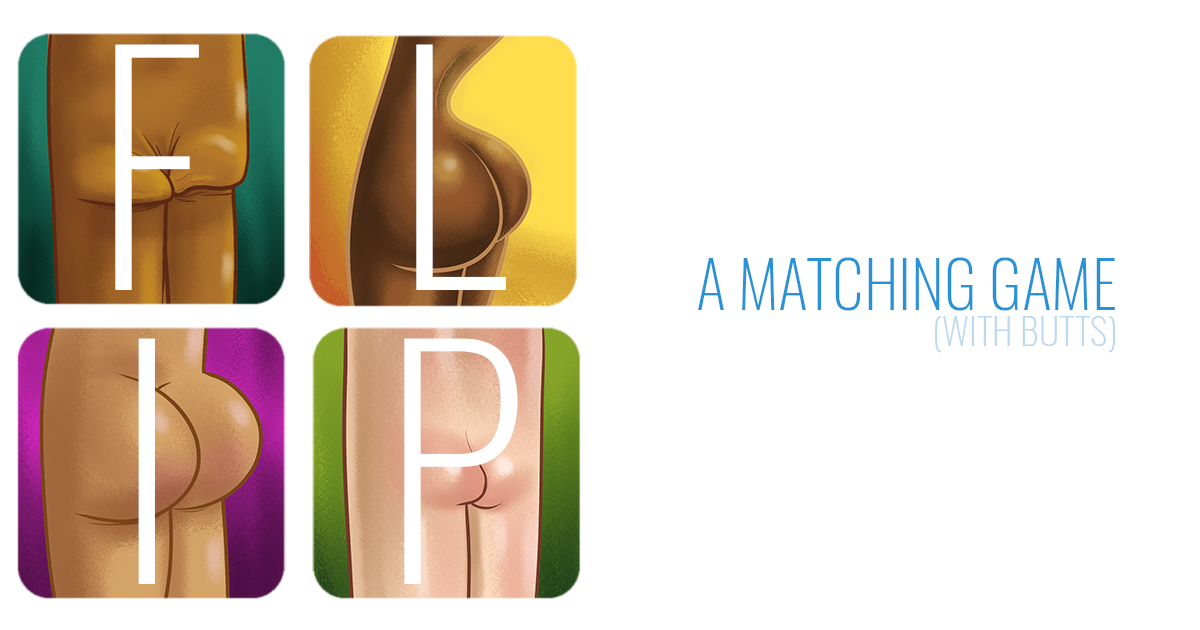
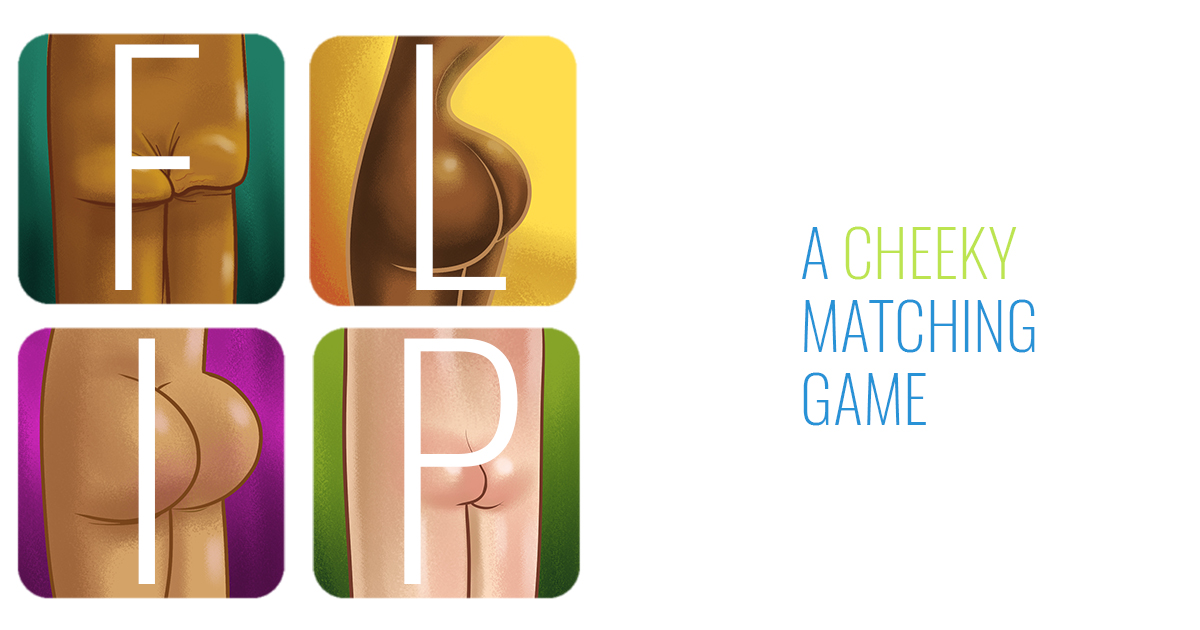
new og:image. Edited descriptions

Changed region(s): [[0.5858, 0.3619, 0.925, 0.6937]]

diff --git a/public/index.html b/public/index.html
@@ -5,7 +5,7 @@
     <link rel="icon" href="%PUBLIC_URL%/favicon.ico" />
     <meta name="viewport" content="width=device-width, initial-scale=1" />
     <meta name="theme-color" content="#000000" />
-    <meta name="description" content="A cheecky matching game" />
+    <meta name="description" content="A cheeky matching game" />
     <link rel="apple-touch-icon" href="%PUBLIC_URL%/logo192.png" />
     <link rel="manifest" href="%PUBLIC_URL%/manifest.json" />
 
@@ -17,7 +17,7 @@
     <meta property="og:type" content="games.plays" />
     <meta property="og:url" content="https://flip-hart.netlify.app/" />
     <meta property="og:image" content="%PUBLIC_URL%/images/fb-card.jpg" />
-    <meta property="'og:description" content="A cheecky matching game" />
+    <meta property="'og:description" content="A cheeky matching game" />
 
     <title>FLIP</title>
   </head>
